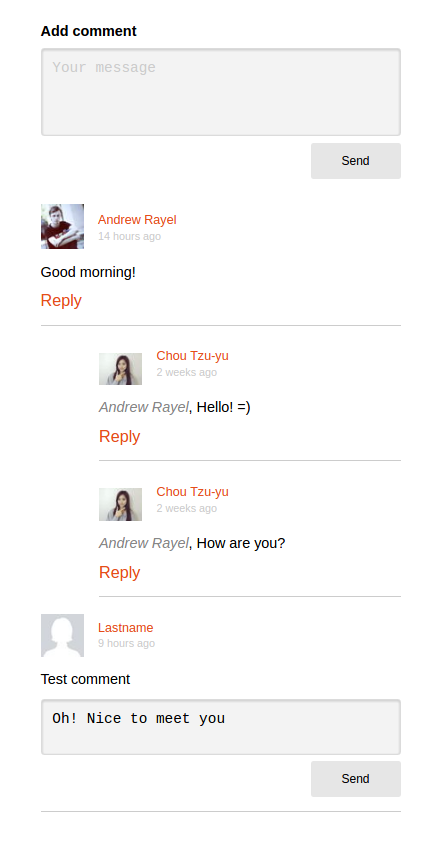
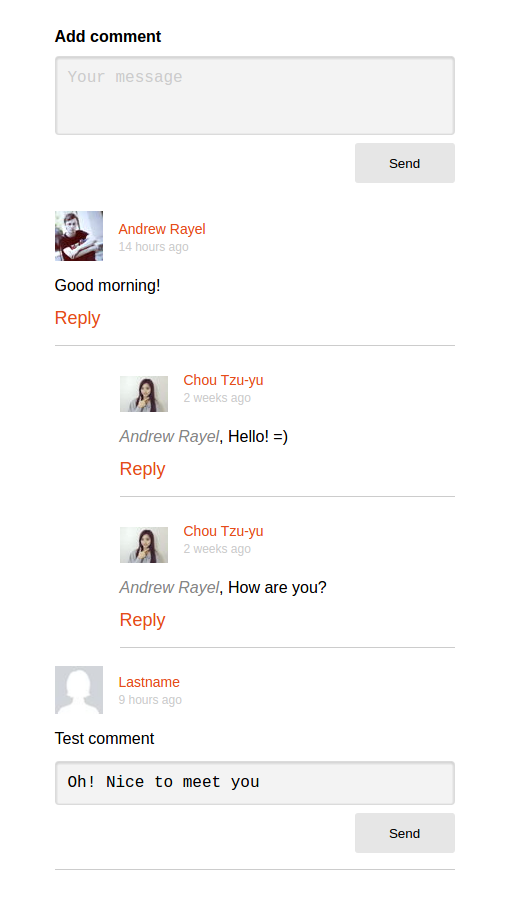
Add text to readme.md

diff --git a/src/components/Modules/AddComment/index.js b/src/components/Modules/AddComment/index.js
@@ -56,7 +56,7 @@ export class AddComment extends Component {
           placeholder="Your message"
           onChange={this.handleChange}
           className={cx(s.text, { [s.small]: isReply })}
-          rows={isReply ? 1 : 4}
+          rows={isReply ? 1 : 3}
           maxRows={5}
         />
 

diff --git a/README.md b/README.md
@@ -1,4 +1,4 @@
-Example comments + add comment form
+Example comments + autosize add comment form
 =========================
 
 ## Source
